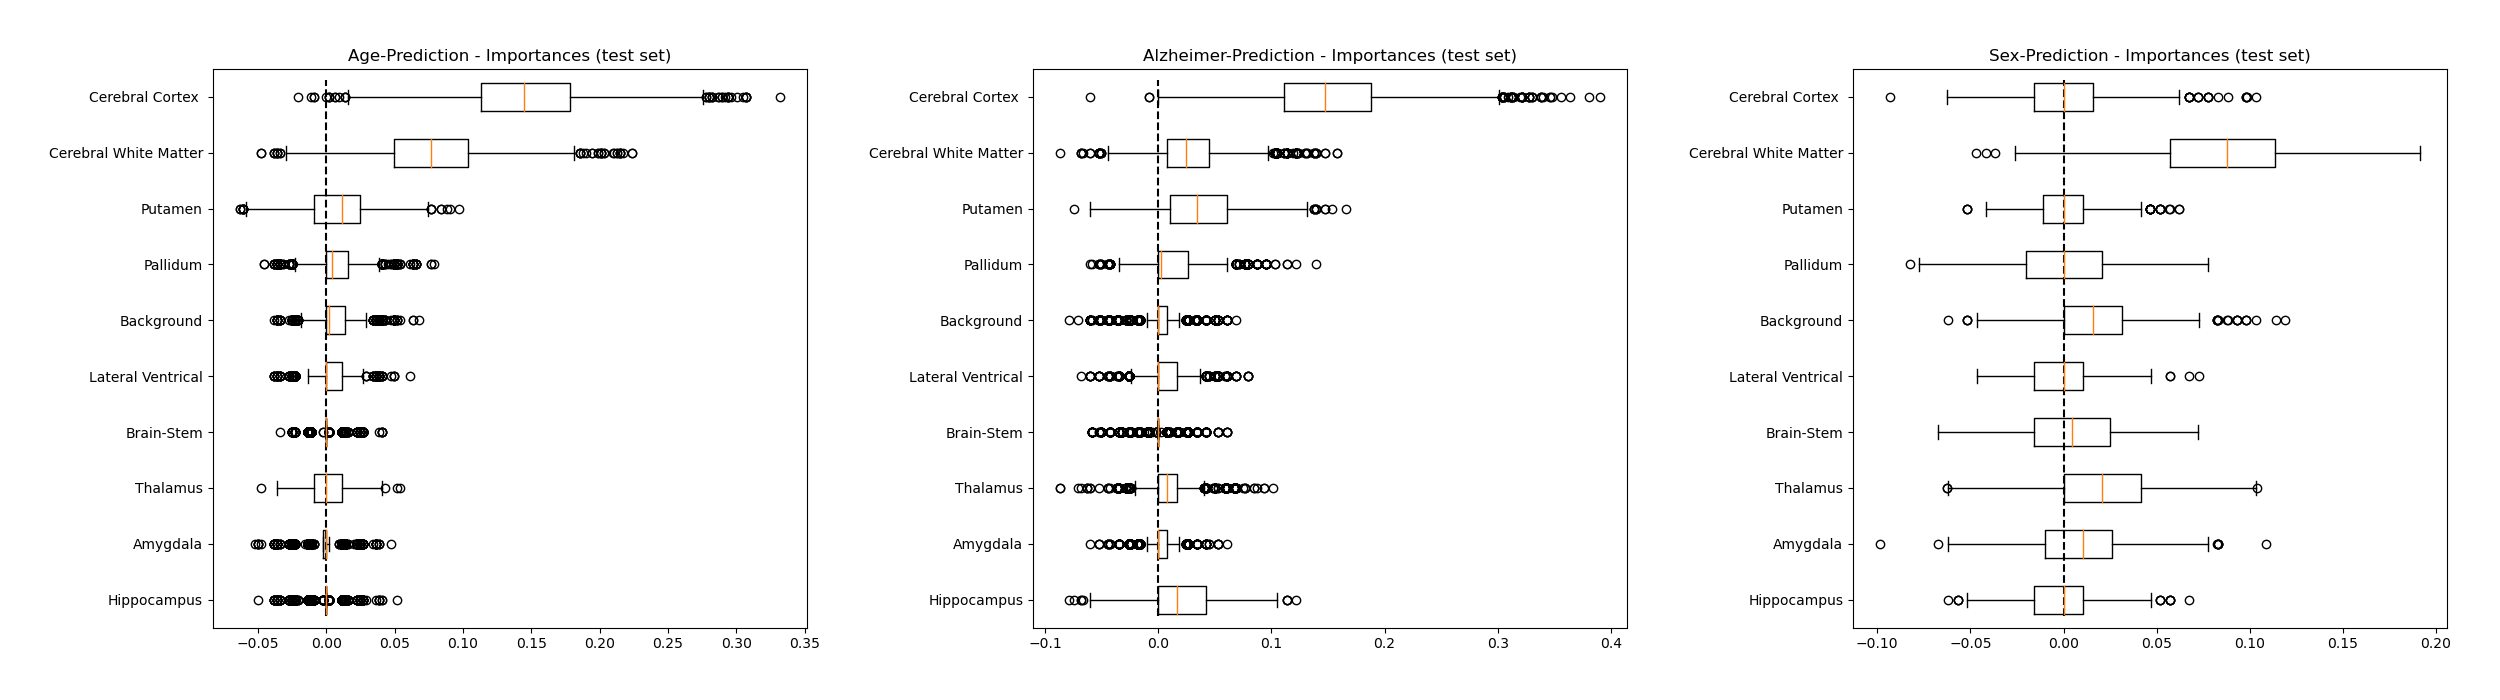
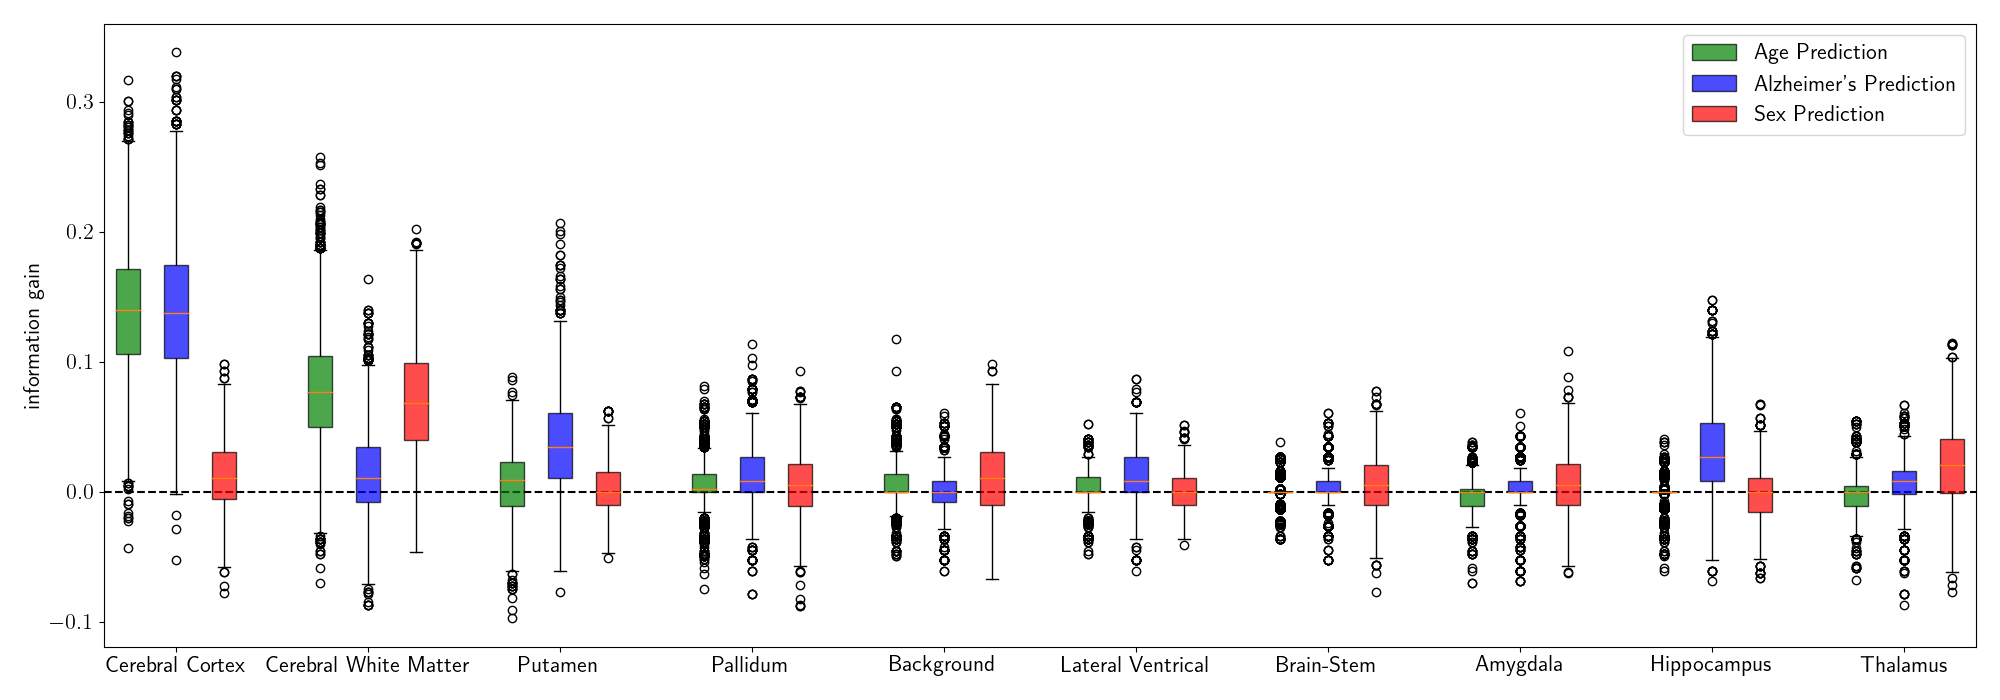
change boxplot for brain example

diff --git a/examples/brain_atlas.py b/examples/brain_atlas.py
@@ -4,49 +4,42 @@ from sklearn.pipeline import Pipeline
 from sklearn.preprocessing import StandardScaler
 from sklearn.svm import SVC
 from sklearn.model_selection import StratifiedShuffleSplit
-
 import matplotlib.pyplot as plt
-plt.rcParams["figure.figsize"] = (25,7)
 
+# please install nilearn
 from nilearn import datasets
 from nilearn.regions import RegionExtractor
-
 from nilearn.datasets import fetch_oasis_vbm
-
-
 
 from grouped_permutation_importance import grouped_permutation_importance
 
-smith_atlas = datasets.fetch_atlas_smith_2009()
+params = {'text.usetex': True,
+          'font.size': 16,
+          'font.family': 'sans-serif',
+          'figure.figsize': (20,7)
+          }
+plt.rcParams.update(params)
+
 atlas_networks = datasets.fetch_atlas_harvard_oxford('sub-prob-2mm').maps
 labels = datasets.fetch_atlas_harvard_oxford('sub-prob-2mm').labels
 
-print(labels)
 # GET DATA FROM OASIS
 n_subjects = 403
 dataset_files = fetch_oasis_vbm(n_subjects=n_subjects)
 sex = np.array(dataset_files.ext_vars["mf"]).astype(str)
 age = np.array(dataset_files.ext_vars["age"]).astype(float)
 cdr = dataset_files.ext_vars["cdr"].astype(float)
-y_cdr = (np.array(cdr)==0.5).astype(int)*1 + (np.array(cdr)==1).astype(int)*1
+y_cdr = (np.array(cdr) >= 0.5).astype(int)
 y_sex = (sex == "F").astype(int)
 y_age = (age > 50).astype(int)
 
 save_file = "brain_regions.npz"
 if not os.path.isfile(save_file):
     # min_region_size in voxel volume mm^3
-    extraction = RegionExtractor(atlas_networks,  #min_region_size=200 ,  extractor='local_regions',
-                                 threshold=.5, #thresholding_strategy='percentile',
-                                 standardize=True)
-
-    # Just call fit() to execute region extraction procedure
+    extraction = RegionExtractor(atlas_networks, threshold=.5, standardize=True)
     extraction.fit()
     regions_img = extraction.regions_img_
-
-
-
     X = np.array(dataset_files.gray_matter_maps)
-
     Z = extraction.transform(X)
     e_index = extraction.index_
     np.savez_compressed(save_file, Z=Z, y_age=y_age, y_cdr=y_cdr, y_sex = y_sex, e_index=e_index)
@@ -58,39 +51,41 @@ else:
     y_cdr = data["y_cdr"]
     e_index = data["e_index"]
 
-cv=StratifiedShuffleSplit(n_splits=45, test_size=0.2)
+cv=StratifiedShuffleSplit(n_splits=50, test_size=0.2)
+imp = []
 for plot_i, y in enumerate([y_age, y_cdr, y_sex]):
 
     model = Pipeline([("Scaler", StandardScaler()),
                       ("SVC", SVC(class_weight="balanced"))])
 
     idxs = []
-    for key in ["Cerebral Cortex ", "Cerebral White Matter", "Thalamus", "Amygdala", "Hippocampus", "Pallidum", "Lateral Ventrical", "Putamen", "Brain-Stem", "Background"]:
+    columns = ["Cerebral Cortex ", "Cerebral White Matter", "Thalamus", "Amygdala", "Hippocampus", "Pallidum",
+               "Lateral Ventrical", "Putamen", "Brain-Stem", "Background"]
+    for key in columns:
         t = [l for l, val in enumerate(labels) if key in val]
         idxs.append(np.nonzero(sum([np.array(e_index) == i for i in t]))[0].tolist())
 
-    columns = ["Cerebral Cortex ", "Cerebral White Matter", "Thalamus", "Amygdala", "Hippocampus", "Pallidum", "Lateral Ventrical", "Putamen", "Brain-Stem", "Background"]
+    imp.append(grouped_permutation_importance(model, Z, y, idxs=idxs,
+                                              n_repeats=100, random_state=0, scoring="balanced_accuracy", n_jobs=5,
+                                              cv=cv, perm_set="test", verbose=1, min_performance=0.75))
 
-    r = grouped_permutation_importance(model, Z, y, idxs=idxs,
-                                       n_repeats=100, random_state=0, scoring="balanced_accuracy", n_jobs=5,
-                                       cv=cv, perm_set="test", verbose=1, min_performance=0.75)
+sorted_idx = imp[0].importances_mean.argsort()[::-1]
 
-    if plot_i == 0:
-        sorted_idx = r.importances_mean.argsort()
+positions = np.array([1, 5, 9, 13, 17, 21, 25, 29, 33, 37])
+bps = []
+for j in range(3):
+    bps.append(plt.boxplot(imp[j].importances[sorted_idx].T, labels=[""] * 10, patch_artist=True,
+                vert=True, positions=positions + j))
 
-    plt.subplot(1, 3, plot_i+1)
+for j, color in enumerate(["green", "blue", "red"]):
+    for patch in bps[j]['boxes']:
+        patch.set_facecolor(color)
+        patch.set_alpha(.7)
 
-    plt.boxplot(r.importances[sorted_idx].T,
-               vert=False, labels=np.array(columns)[sorted_idx])
-    plt.vlines(x=0, ymin=1-0.3, ymax=len(columns)+0.3, linestyles="dashed", colors="black")
+plt.xticks(positions+1, np.array(columns)[sorted_idx])
+plt.legend([x["boxes"][0] for x in bps], ["Age Prediction", "Alzheimer's Prediction", "Sex Prediction"])
+plt.hlines(y=0, xmin=0.5, xmax=len(columns)*4-.5, linestyles="dashed", colors="black")
+plt.ylabel("information gain")
 
-    if plot_i == 0:
-        plt.title("Age-Prediction - Importances (test set)")
-    elif plot_i == 1:
-        plt.title("Alzheimer-Prediction - Importances (test set)")
-    else:
-        plt.title("Sex-Prediction - Importances (test set)")
-
-    plt.tight_layout(pad=3.5)
-
+plt.tight_layout()
 plt.savefig("../demo/brain_atlas.png")
